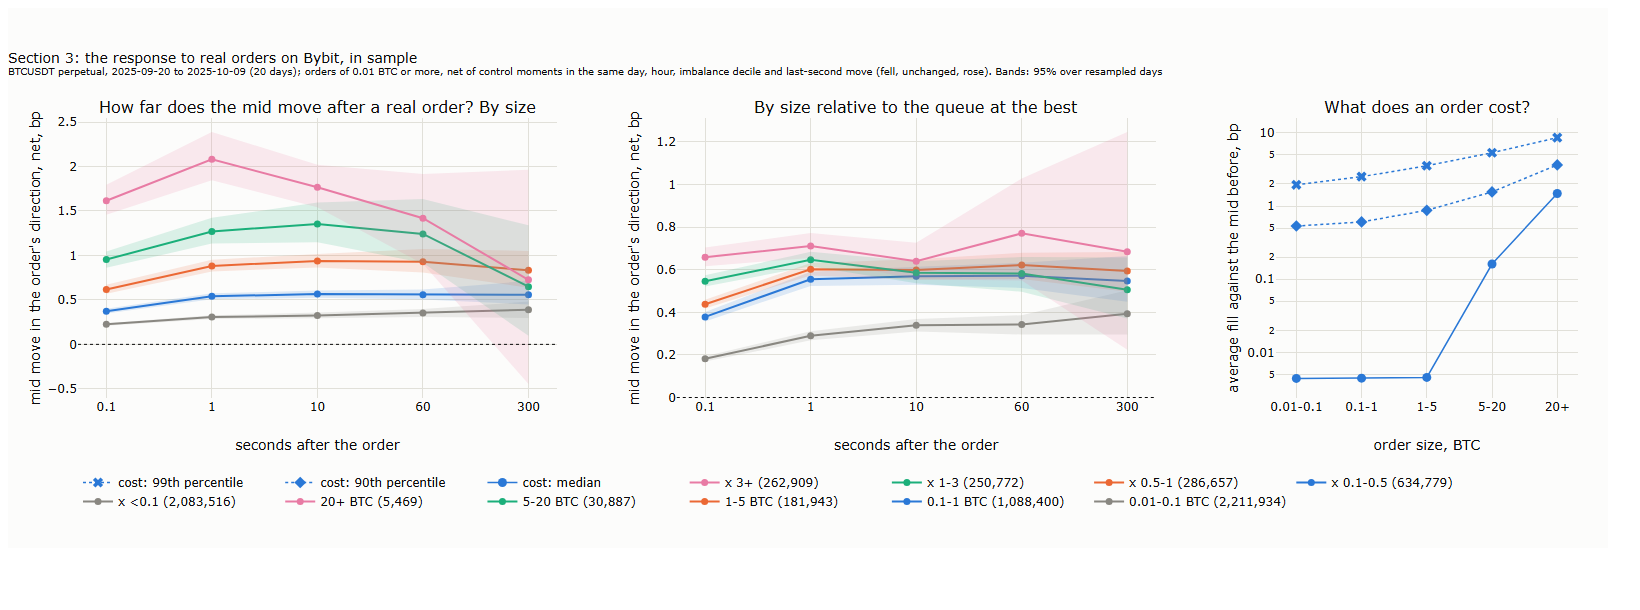
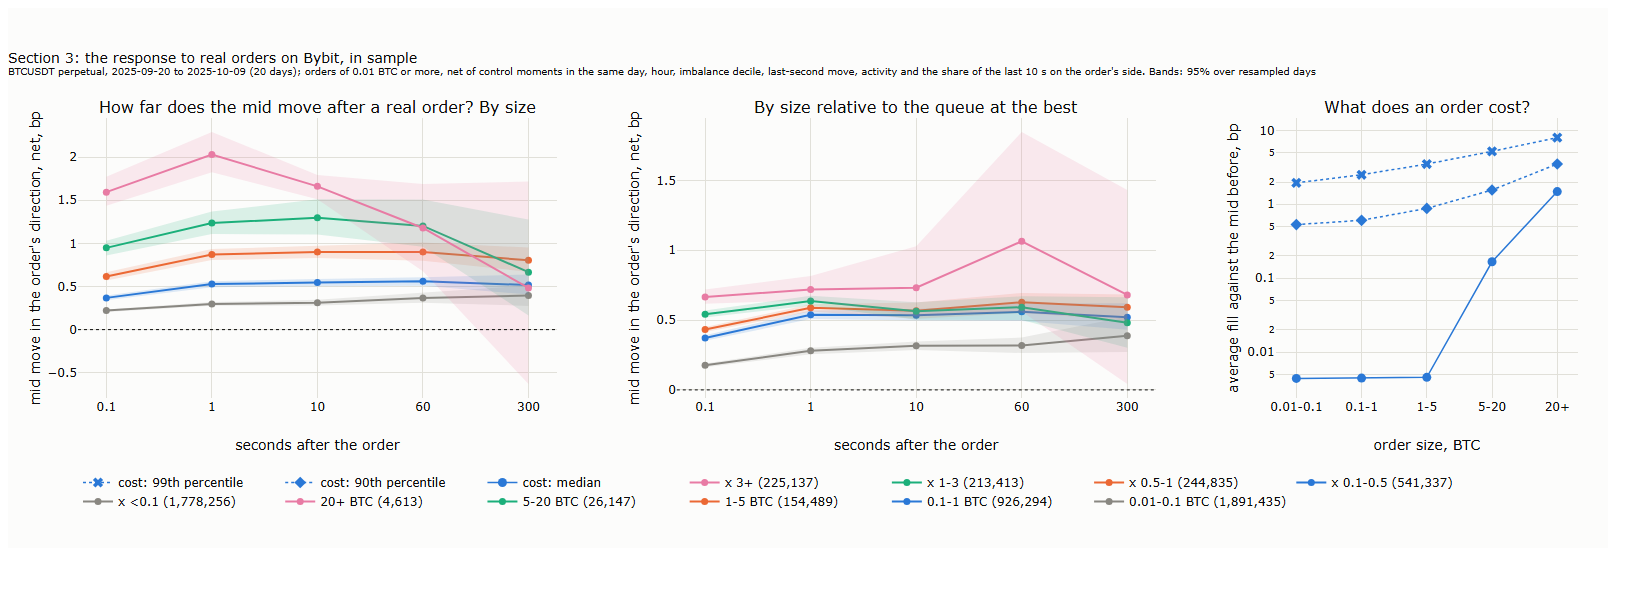
Lecture 22 §3: controls also match activity and the stream already running
Follow-on same-side flow after real orders was mostly a stream already under way (split
orders), not a reaction. Cells now match activity thirds and the quarter of the last 10 s
of taker size on the order's side. Recorded before any out-of-sample use.

diff --git a/lectures/22-a-market-that-reacts/scripts/l22_s3_response.py b/lectures/22-a-market-that-reacts/scripts/l22_s3_response.py
@@ -1,6 +1,8 @@
 """Lecture 22 §3, layer C on our data, in sample only (20 September - 9 October): how far the mid moves after a real order, net of matched controls, by size class and by size
 relative to the queue, and what the orders cost, as a distribution. Net: from each order's signed move, the mean signed move of the control moments in its cell is taken off; a cell is the
-same day, hour, decile of the imbalance at the best (fixed on the controls) and the mid's move over the last second, fell, unchanged or rose, both signed for the order's side.
+same day, hour, decile of the imbalance at the best (fixed on the controls) the mid's move over the last second, fell, unchanged or rose, both signed for the order's
+side, the third of the market's activity, taker orders in the 10 s before (thirds fixed on the controls), and the quarter of the share of the last 10 s of taker size that
+was on the order's side (a stream already running).
 Day by day, to spare memory; bands from 2,000 resamples of days. Output: results/s3_response.json and figures/22_s3_response.png. --run recomputes from L22_OUT."""
 import json, sys
 from pathlib import Path
@@ -11,6 +13,7 @@ from trading_models.plotting import INK, MUTED, SERIES, apply_theme, save_figure
 apply_theme(); OUT = L.RESULTS / "s3_response.json"
 CLASSES = [(0.01, 0.1, "0.01-0.1"), (0.1, 1, "0.1-1"), (1, 5, "1-5"), (5, 20, "5-20"), (20, 1e9, "20+")]; XB = [(0, 0.1, "<0.1"), (0.1, 0.5, "0.1-0.5"), (0.5, 1, "0.5-1"), (1, 3, "1-3"), (3, 1e9, "3+")]
 M = [f"m{t}" for t in L.TAUS]
+SHARE = (pl.when(pl.col("side") == 1).then("prior_buy").otherwise("prior_sell") / (pl.col("prior_buy") + pl.col("prior_sell"))).fill_nan(0.5).fill_null(0.5).alias("share")   # of the last 10 s, on our side
 
 
 def in_sample_days():
@@ -19,15 +22,16 @@ def in_sample_days():
 
 def compute():
     days = in_sample_days(); C = pl.concat([pl.read_parquet(L.OUT / "controls" / f"{d}.parquet").with_columns(pl.lit(d).alias("day")) for d in days])
-    sides = pl.concat([C.with_columns(pl.lit(s).alias("side")) for s in (1, -1)]).with_columns((pl.col("side") * pl.col("imb")).alias("simb"), (pl.col("side") * pl.col("move1")).alias("smove"))
-    qi = np.quantile(sides["simb"].drop_nans().to_numpy(), np.linspace(0.1, 0.9, 9))
-    cell = lambda D: D.with_columns((pl.col("ts") // 3_600_000 % 24).alias("hour"), pl.col("simb").cut(qi.tolist(), labels=[str(i) for i in range(10)]).alias("di"), pl.col("smove").sign().cast(pl.Int8).alias("tm"))
-    ctrl = cell(sides).group_by("day", "side", "hour", "di", "tm").agg(*[(pl.col("side") * pl.col(m)).mean().alias(f"c_{m}") for m in M],
+    sides = pl.concat([C.with_columns(pl.lit(s).alias("side")) for s in (1, -1)]).with_columns((pl.col("side") * pl.col("imb")).alias("simb"), (pl.col("side") * pl.col("move1")).alias("smove"), SHARE)
+    qi = np.quantile(sides["simb"].drop_nans().to_numpy(), np.linspace(0.1, 0.9, 9)); qa = np.quantile(C["act10"].to_numpy(), [1 / 3, 2 / 3])
+    cell = lambda D: D.with_columns((pl.col("ts") // 3_600_000 % 24).alias("hour"), pl.col("simb").cut(qi.tolist(), labels=[str(i) for i in range(10)]).alias("di"), pl.col("smove").sign().cast(pl.Int8).alias("tm"), pl.col("act10").cut(qa.tolist(), labels=["0", "1", "2"]).alias("ta"),
+                                     pl.col("share").cut([0.25, 0.5, 0.75], labels=["0", "1", "2", "3"]).alias("ps"))
+    ctrl = cell(sides).group_by("day", "side", "hour", "di", "tm", "ta", "ps").agg(*[(pl.col("side") * pl.col(m)).mean().alias(f"c_{m}") for m in M],
                                                                       pl.when(pl.col("side") == 1).then("flow_buy1000").otherwise("flow_sell1000").mean().alias("c_flow1000"), pl.len().alias("n_ctrl"))
     per_day = []; costs = {c[2]: [] for c in CLASSES}
     for d in days:
-        X = pl.read_parquet(L.OUT / "orders" / f"{d}.parquet", columns=["ts", "side", "S", "x", "cost_bp", "imb", "move1", "flow1000"] + M).filter(pl.col("S") >= 0.01)
-        X = cell(X.with_columns(pl.lit(d).alias("day"), (pl.col("side") * pl.col("imb")).alias("simb"), (pl.col("side") * pl.col("move1")).alias("smove"))).join(ctrl, on=["day", "side", "hour", "di", "tm"], how="inner")
+        X = pl.read_parquet(L.OUT / "orders" / f"{d}.parquet", columns=["ts", "side", "S", "x", "cost_bp", "imb", "move1", "act10", "prior_buy", "prior_sell", "flow1000"] + M).filter(pl.col("S") >= 0.01)
+        X = cell(X.with_columns(pl.lit(d).alias("day"), (pl.col("side") * pl.col("imb")).alias("simb"), (pl.col("side") * pl.col("move1")).alias("smove"), SHARE)).join(ctrl, on=["day", "side", "hour", "di", "tm", "ta", "ps"], how="inner")
         X = X.with_columns(*[(pl.col("side") * pl.col(m) - pl.col(f"c_{m}")).alias(f"n_{m}") for m in M], (pl.col("flow1000") - pl.col("c_flow1000")).alias("n_flow"),
                            pl.col("S").cut([c[0] for c in CLASSES[1:]], labels=[c[2] for c in CLASSES]).alias("cls"), pl.col("x").cut([b[0] for b in XB[1:]], labels=[b[2] for b in XB]).alias("xb"))
         for by in ("cls", "xb"):
@@ -71,5 +75,5 @@ if __name__ == "__main__":
                         marker=dict(color=SERIES[0], size=9, symbol=sym), name=f"cost: {nm}", row=1, col=3)
     fig.update_xaxes(title_text="order size, BTC", row=1, col=3); fig.update_yaxes(title_text="average fill against the mid before, bp", type="log", row=1, col=3)
     fig.update_layout(title=f"Section 3: the response to real orders on Bybit, in sample<br><sup>BTCUSDT perpetual, {R['days'][0]} to {R['days'][-1]} ({len(R['days'])} days); orders of 0.01 BTC or more, net of control moments in the same "
-                      "day, hour, imbalance decile and last-second move (fell, unchanged, rose). Bands: 95% over resampled days</sup>", height=540, width=1600, margin=dict(t=110, l=70, r=30, b=150), legend=dict(orientation="h", y=-0.25, x=0))
+                      "day, hour, imbalance decile, last-second move, activity and the share of the last 10 s on the order's side. Bands: 95% over resampled days</sup>", height=540, width=1600, margin=dict(t=110, l=70, r=30, b=150), legend=dict(orientation="h", y=-0.25, x=0))
     save_figure(fig, L.PREFIX + "22_s3_response", L.FIG)

diff --git a/lectures/22-a-market-that-reacts/scripts/l22_orders.py b/lectures/22-a-market-that-reacts/scripts/l22_orders.py
@@ -1,7 +1,7 @@
 """Lecture 22 §3, step 1: the table of real orders of one day, and of control moments, with what the hybrid replay and H1-H9, H20 need. A real order: the trades with the same
 millisecond and side (Lecture 19). For each: size S, average price and cost against the mid before, the book state just before it (Lecture 19's state after every update, engine time),
 relative size x = S / size at the best on the side taken, imbalance at the best, the mid's move over the last second, the mid at each horizon after it, other takers' size on its side after it,
-quote pulls near the best in the last 5 s (Lecture 18's rule, from l22_book.py if it has run) and the gap to Binance's last price. Controls: one random moment in every 10 s, with the same state and mid path and no sign; they are
+how many taker orders came in the last 10 s and how much was bought and sold, quote pulls near the best in the last 5 s (Lecture 18's rule, from l22_book.py if it has run) and the gap to Binance's last price. Controls: one random moment in every 10 s, with the same state and mid path and no sign; they are
 signed for a side when matched. Nothing is estimated here. Output: L22_OUT/orders/DAY.parquet and L22_OUT/controls/DAY.parquet. Usage: python l22_orders.py YYYY-MM-DD"""
 import io, sys, time, zipfile
 from pathlib import Path
@@ -35,6 +35,9 @@ def features(t):
     f = dict(ok=ok, mid0=m0, qb=qb[i], qa=qa[i], q5=q5[i], spread=spread[i], imb=(qb[i] - qa[i]) / (qb[i] + qa[i]), move1=(m0 - mid[np.maximum(state_at(t - 1000)[0], 0)]) / m0 * 1e4)
     for tau in L.TAUS: f[f"m{tau}"] = (mid[np.maximum(state_at(t + tau)[1], 0)] - m0) / m0 * 1e4
     a, b = np.searchsorted(pt, t - 5000, "right"), np.searchsorted(pt, t, "right"); f["pulls5"] = np.where(b > a, (pc[b] - pc[a]) / np.maximum(b - a, 1), np.nan) if P is not None else np.full(len(t), np.nan); f["updates5"] = b - a
+    f["act10"] = np.searchsorted(ot, t, "left") - np.searchsorted(ot, t - 10_000, "left")      # taker orders in the 10 s before: how busy the market is
+    a10, b10 = np.searchsorted(ot, t - 10_000, "left"), np.searchsorted(ot, t, "left")       # taker size bought and sold in the 10 s before: a stream already running
+    f["prior_buy"], f["prior_sell"] = fc[1][b10] - fc[1][a10], fc[-1][b10] - fc[-1][a10]
     j = np.searchsorted(bt, t, "right") - 1; f["bn_gap"] = np.where(j >= 0, (m0 - bp[np.maximum(j, 0)]) / m0 * 1e4, np.nan); f["bn_age"] = np.where(j >= 0, t - bt[np.maximum(j, 0)], -1)
     return f
 

diff --git a/lectures/22-a-market-that-reacts/scripts/l22_s3_refill.py b/lectures/22-a-market-that-reacts/scripts/l22_s3_refill.py
@@ -49,5 +49,5 @@ if __name__ == "__main__":
     fig.add_scatter(x=cls, y=[v[k]["S"] for k in cls], mode="lines+markers", line=dict(color=MUTED, width=2, dash="dot"), marker=dict(size=7), name="the order's own size (average)", row=1, col=3)
     fig.update_xaxes(title_text="order size, BTC", row=1, col=3); fig.update_yaxes(title_text="BTC", type="log", row=1, col=3)
     fig.update_layout(title=f"Section 3: refill and triggered trading on Bybit, in sample<br><sup>BTCUSDT perpetual, {R['days'][0]} to {R['days'][-1]} ({len(R['days'])} days). Left and middle: real orders of 1 BTC or more, depth on the side "
-                      "they took. Right: orders of 0.01 BTC or more, net of control moments in the same day, hour, imbalance decile and last-second move; bars: 95% over resampled days</sup>", height=540, width=1600, margin=dict(t=110, l=70, r=30, b=170), legend=dict(orientation="h", y=-0.27, x=0))
+                      "they took. Right: orders of 0.01 BTC or more, net of control moments in the same day, hour, imbalance decile, last-second move, activity and recent same-side share; bars: 95% over resampled days</sup>", height=540, width=1600, margin=dict(t=110, l=70, r=30, b=170), legend=dict(orientation="h", y=-0.27, x=0))
     save_figure(fig, L.PREFIX + "22_s3_refill", L.FIG)

diff --git a/lectures/22-a-market-that-reacts/results/hypotheses.md b/lectures/22-a-market-that-reacts/results/hypotheses.md
@@ -32,7 +32,7 @@ Notes with read status: session notes, `l22_literature_notes.md`; every number q
 Sample as Lectures 19 to 21: Bybit BTCUSDT perpetual, 20 Sep - 3 Nov 2025 (45 days). In sample: 20 Sep - 9 Oct, every curve and slope estimated here only. Out of sample: 11 Oct - 3 Nov. 10 Oct alone. Bootstrap over days (2,000 resamples), one-sided p-values, Benjamini-Hochberg at 5% over the primary p-values.
 
 - **A real order:** trades with the same millisecond and side (Lecture 19). Classes by size S: 0.01-0.1, 0.1-1, 1-5, 5-20, 20 BTC or more. **Relative size** x = S / size at the best on its side at the last update.
-- **Response** R(τ): the move of the mid from the last update before the order to τ later, signed for the order, in bp; τ in {0.1, 1, 10, 60, 300} s. **Net** of matched controls: random moments, one per 10 s, same side, hour, day, decile of the imbalance at the best and tercile of the mid's move over the last second, since takers tend to act just after a move (Lecture 21, H7). *Clarified on 2026-11-08, before any out-of-sample data was used:* the mid does not move within a second in more than a third of moments, so its terciles are not defined; the three groups are the mid fell, did not move, rose.
+- **Response** R(τ): the move of the mid from the last update before the order to τ later, signed for the order, in bp; τ in {0.1, 1, 10, 60, 300} s. **Net** of matched controls: random moments, one per 10 s, same side, hour, day, decile of the imbalance at the best and tercile of the mid's move over the last second, since takers tend to act just after a move (Lecture 21, H7). *Clarified on 2026-11-08, before any out-of-sample data was used:* the mid does not move within a second in more than a third of moments, so its terciles are not defined; the three groups are the mid fell, did not move, rose. *Changed on 2026-11-08, before any out-of-sample data was used:* the cells also match the third of the market's activity, taker orders in the 10 s before (thirds fixed in sample). In sample, without it, an order of 0.01-0.1 BTC was followed within 1 s by 1.9 BTC more same-side taker size than its controls, about 50 times its size: small orders come in busy moments, and the extra flow was mostly activity, not reaction. The activity match changed this little (1.9 to 1.85 BTC). What explained it was a stream already running: on 1 October, orders of 20 BTC or more were followed within 1 s by 49 BTC on their side when more than three quarters of the last 10 s of taker size had been on that side, and by 6 BTC when less than a quarter had, in line with the long memory of order signs from split orders (Lillo and Farmer, 2004). An order of ours has no such stream behind it. So the cells also match the quarter of the share of the last 10 s of taker size on the order's side. This matters most for H4 and layer D.
 - **Costs** before fees, in bp of the mid at the decision, latency L = 50 ms as in Lecture 21.
 
 ## The hybrid replay
